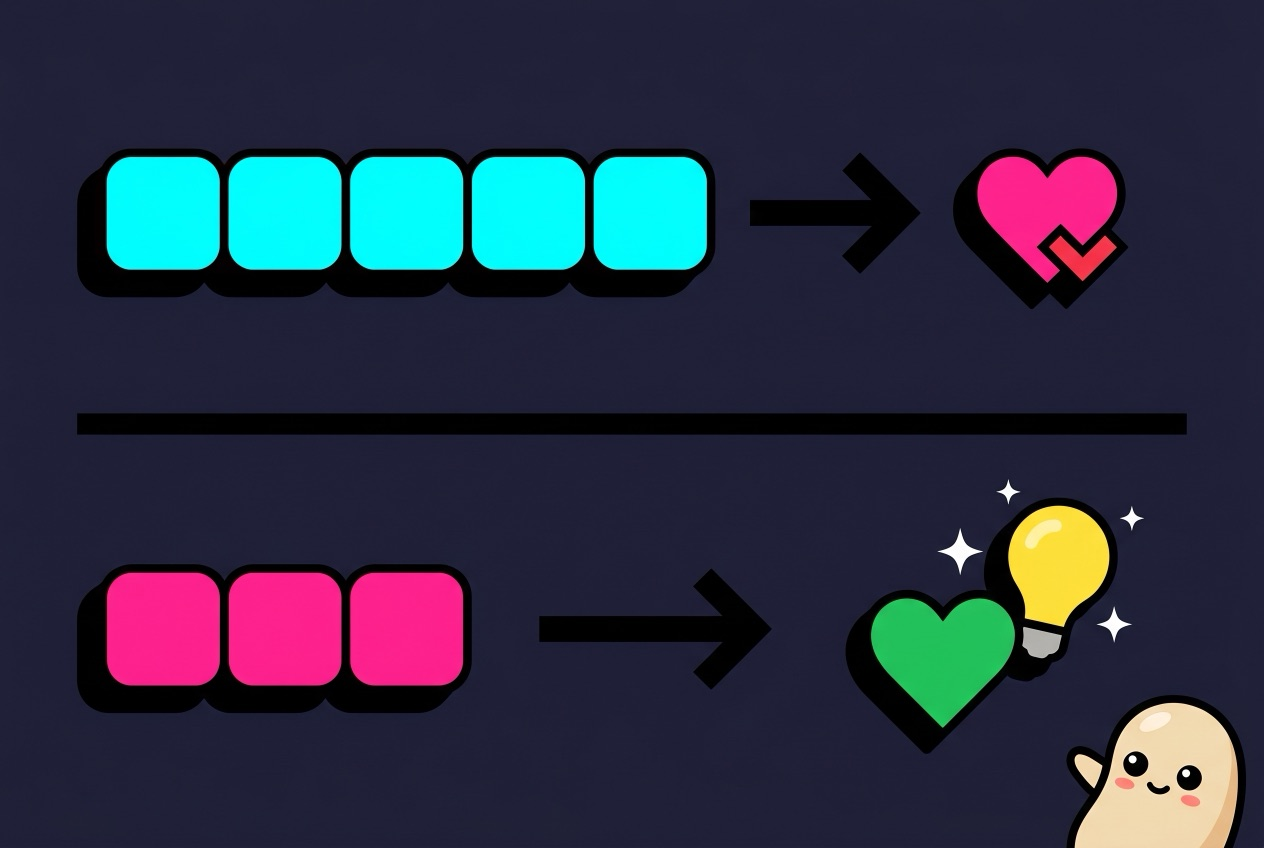
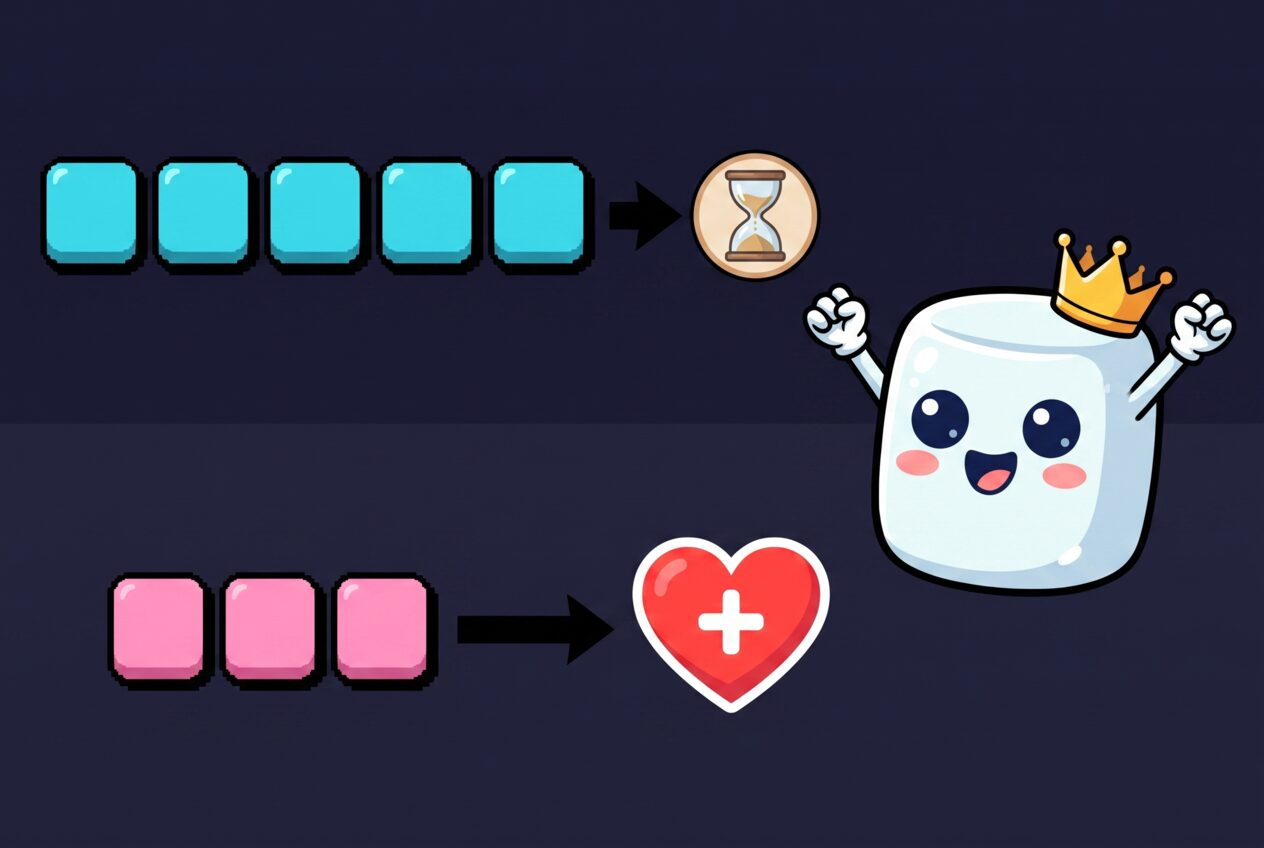
fix(daily): regenerate Word Hunt tutorial images with brand mascot
Old tutorial art used a generic beige blob and abstract shapes that
didn't map to gameplay. Regenerated all 3 step images with the real
LexiClash mascot (crowned white marshmallow) via nano_banana_2 seeded
from lexiclash-welcome-mascot-nobg.png. Each image now shows its step's
mechanic: tile-color feedback, long-row=try vs short-row=free-life,
trophy+globe worldwide. Kept images text-free so the localized DOM copy
carries all wording (6 locales). Same paths + 1264x848 dims = no code
change; files also smaller (114/88/139KB -> 47/55/82KB).

Updated step2ImageAlt across all 6 locales to match new art
(hourglass/heart mechanic, not the old "heart and coin").

diff --git a/fe-next/translations/ru.js b/fe-next/translations/ru.js
@@ -10417,7 +10417,7 @@ const ru = {
     "wordHunt": {
       "bonusWordsTitle": "Бесплатные Бонусные Слова",
       "step1ImageAlt": "Талисман исследует светящиеся буквы с лупой",
-      "step2ImageAlt": "Талисман ликует, когда сердце и монета вырываются из букв слов",
+      "step2ImageAlt": "Талисман в короне ликует: длинный ряд плиток тратит попытку, а короткий ряд выбивает сердце и даёт бесплатную жизнь",
       "step3ImageAlt": "Талисман празднует с кубком и глобусом",
       "welcome": {
         "title": "Охота за Словами",

diff --git a/fe-next/translations/ja.js b/fe-next/translations/ja.js
@@ -3337,7 +3337,7 @@ const ja = {
     "wordHunt": {
       "bonusWordsTitle": "無料ボーナスワード",
       "step1ImageAlt": "虫眼鏡で光る文字タイルを調べるマスコット",
-      "step2ImageAlt": "ワードタイルからハートとコインが飛び出して喜ぶマスコット",
+      "step2ImageAlt": "王冠をかぶったマスコットが喜ぶ様子。長いタイルの列は挑戦回数を消費し、短い列はハートが飛び出して無料でライフが増える",
       "step3ImageAlt": "トロフィーと地球儀と一緒に喜ぶマスコット",
       "welcome": {
         "title": "ワードハント",

diff --git a/fe-next/translations/he.js b/fe-next/translations/he.js
@@ -3480,7 +3480,7 @@ const he = {
     "wordHunt": {
       "bonusWordsTitle": "מילות בונוס חינם",
       "step1ImageAlt": "קמע בוחן אריחי אותיות זוהרים עם זכוכית מגדלת",
-      "step2ImageAlt": "קמע חוגג כשלב ומטבע מתפרצים מאריחי המילים",
+      "step2ImageAlt": "הקמע המוכתר חוגג: שורת אריחים ארוכה מנצלת ניסיון, ושורה קצרה מקפיצה לב שמעניק חיים בחינם",
       "step3ImageAlt": "קמע חוגג עם גביע וכדור הארץ",
       "welcome": {
         "title": "Word Hunt",

diff --git a/fe-next/translations/es.js b/fe-next/translations/es.js
@@ -4801,7 +4801,7 @@ const es = {
     "wordHunt": {
       "bonusWordsTitle": "Palabras bonus gratis",
       "step1ImageAlt": "Una mascota examina fichas de letras brillantes con una lupa",
-      "step2ImageAlt": "Una mascota celebra mientras un corazón y una moneda salen de las fichas de palabras",
+      "step2ImageAlt": "Una mascota coronada celebra: una fila larga de fichas gasta un intento, mientras una fila corta hace saltar un corazón que da una vida gratis",
       "step3ImageAlt": "Una mascota celebra con un trofeo y un globo terráqueo",
       "welcome": {
         "title": "Word Hunt",

diff --git a/fe-next/translations/sv.js b/fe-next/translations/sv.js
@@ -3494,7 +3494,7 @@ const sv = {
     "wordHunt": {
       "bonusWordsTitle": "Gratis bonusord",
       "step1ImageAlt": "En maskot granskar lysande bokstavsbrickor med ett förstoringsglas",
-      "step2ImageAlt": "En maskot jublar när ett hjärta och ett mynt sprutar ut ur ordbrickor",
+      "step2ImageAlt": "En krönt maskot jublar: en lång brickrad kostar ett försök, medan en kort rad ploppar fram ett hjärta för ett gratis liv",
       "step3ImageAlt": "En maskot firar med en pokal och en jordglob",
       "welcome": {
         "title": "Word Hunt",

diff --git a/fe-next/translations/en.js b/fe-next/translations/en.js
@@ -3376,7 +3376,7 @@ const en = {
     "wordHunt": {
       "bonusWordsTitle": "Free Bonus Words",
       "step1ImageAlt": "A mascot inspects glowing letter tiles with a magnifying glass",
-      "step2ImageAlt": "A mascot cheers as a heart and a coin burst out of word tiles",
+      "step2ImageAlt": "A crowned mascot cheers: a long tile row spends a try, while a short tile row pops a heart for a free life",
       "step3ImageAlt": "A mascot celebrates with a trophy and a globe",
       "welcome": {
         "title": "Word Hunt",
